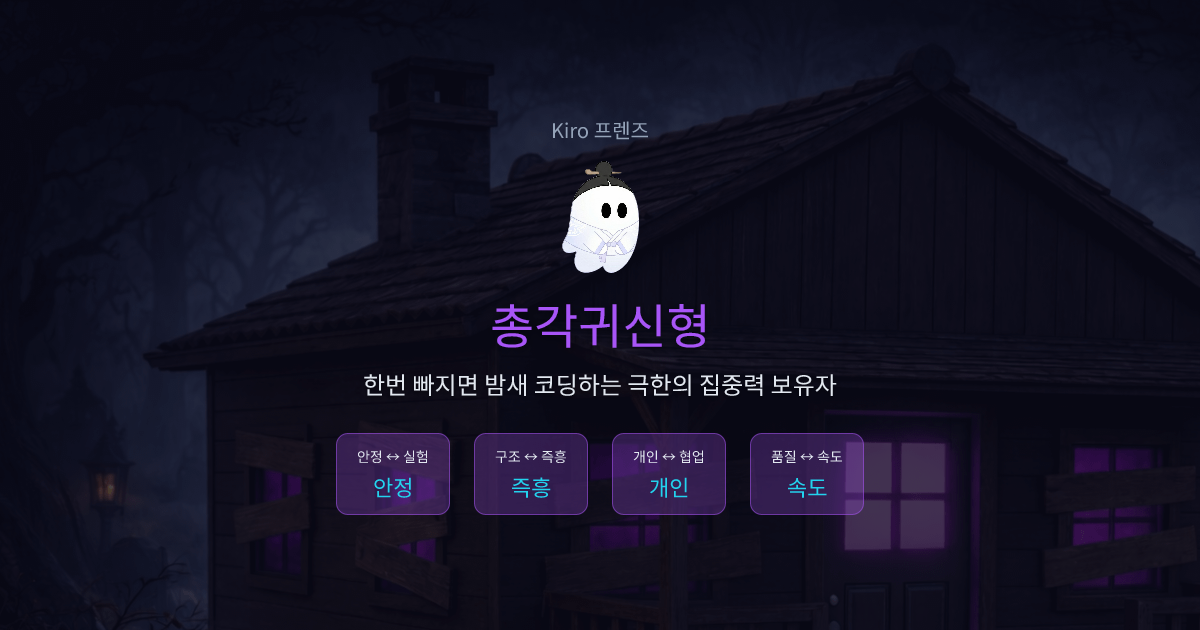
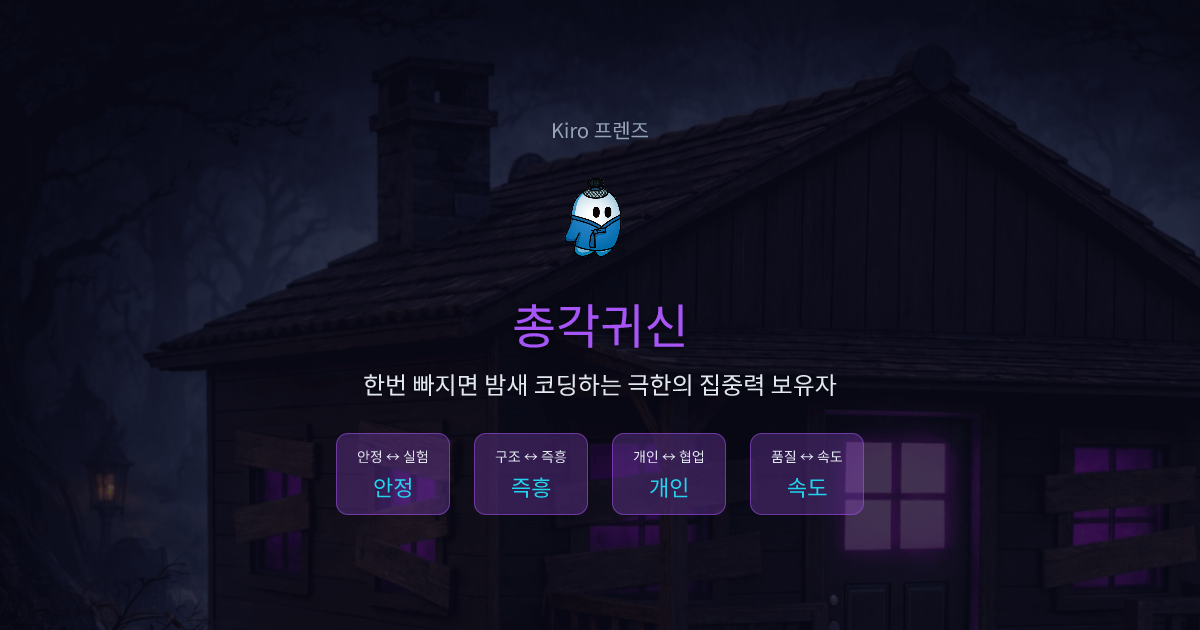
feat: regenerate OG images with default base images for all characters

Changed region(s): [[0.4625, 0.2413, 0.555, 0.4524], [0.4008, 0.4825, 0.5858, 0.573]]

diff --git a/scripts/generate-og.ts b/scripts/generate-og.ts
@@ -477,6 +477,15 @@ async function main() {
     fs.writeFileSync(defaultPath, defaultPng);
     console.log(`✅ default-${locale}.png (${defaultPng.length} bytes)`);
   }
+  
+  // 기본 default.png 생성 (한국어 버전 사용)
+  const defaultMarkup = createDefaultOgMarkup(bgImageSrc, 'ko');
+  const defaultSvg = await satori(defaultMarkup as React.ReactElement, satoriOptions);
+  const defaultPng = svgToPng(defaultSvg);
+  const defaultPath = path.join(OUTPUT_DIR, 'default.png');
+  fs.writeFileSync(defaultPath, defaultPng);
+  console.log(`✅ default.png (${defaultPng.length} bytes) (기본)`);
+
 
   // 2. 캐릭터별 OG 이미지 생성 (각 언어별)
   for (const character of characters) {
@@ -488,9 +497,17 @@ async function main() {
       fs.writeFileSync(filePath, png);
       console.log(`✅ ${character.slug}-${locale}.png (${png.length} bytes) - ${character.emoji} ${character.name[locale]}`);
     }
+    
+    // 기본 이미지 생성 (한국어 버전 사용)
+    const defaultMarkup = createCharacterOgMarkup(character, bgImageSrc, 'ko');
+    const defaultSvg = await satori(defaultMarkup as React.ReactElement, satoriOptions);
+    const defaultPng = svgToPng(defaultSvg);
+    const defaultPath = path.join(OUTPUT_DIR, `${character.slug}.png`);
+    fs.writeFileSync(defaultPath, defaultPng);
+    console.log(`✅ ${character.slug}.png (${defaultPng.length} bytes) - ${character.emoji} ${character.name.ko} (기본)`);
   }
 
-  console.log(`\n🎉 OG 이미지 ${(characters.length + 1) * 3}개 생성 완료 → ${OUTPUT_DIR}`);
+  console.log(`\n🎉 OG 이미지 ${(characters.length + 1) * 3 + characters.length + 1}개 생성 완료 → ${OUTPUT_DIR}`);
 }
 
 main().catch((err) => {
